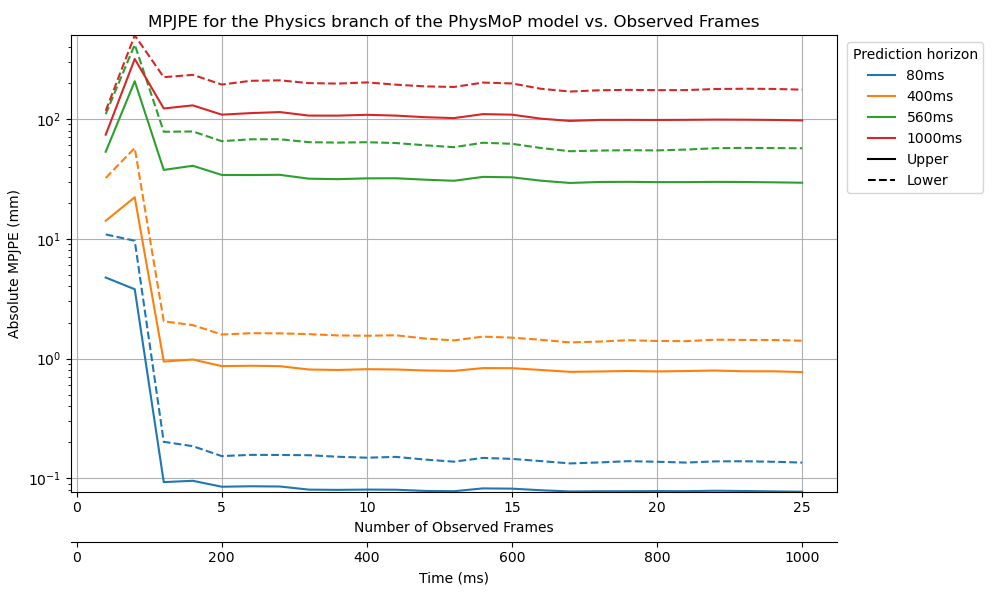
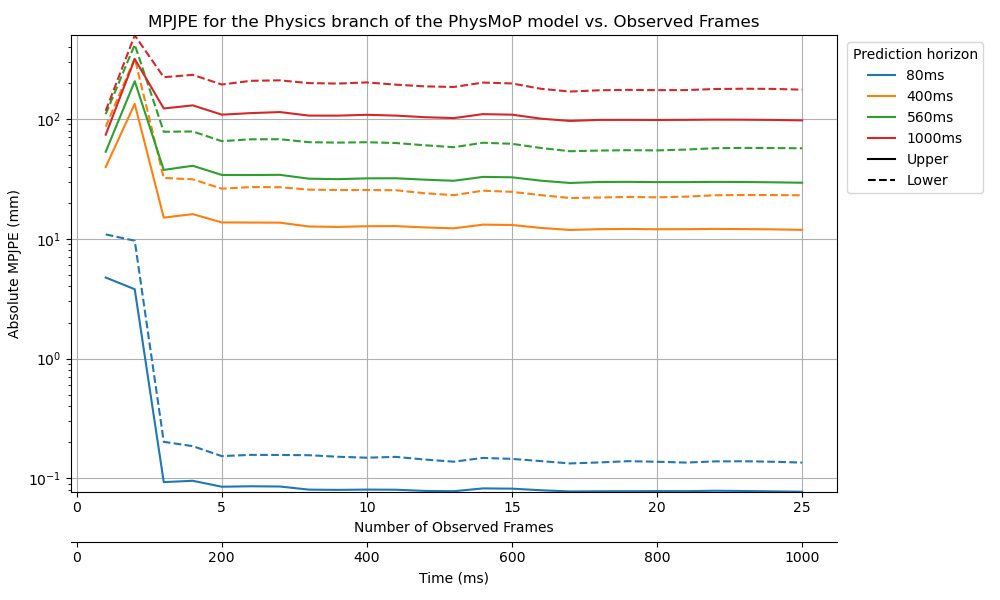
Fix incorrect time horizon selection

diff --git a/exps/run/eval_upper_lower.py b/exps/run/eval_upper_lower.py
@@ -89,6 +89,12 @@ def plot_and_save(upper_data, lower_data, model_name, branch, x_vals, colors, y_
 
 # Parse the data
 def parse_physmop_data(filename, body_part):
+    '''
+    Note that there are 8 timehorizons logged per observation length.
+    time_idx = [1, 3, 7, 9, 13, 17, 21, 24] # Corresponds to (idx+1)*40 ms in the future, i.e.,
+    time horizons are: 80ms, 160ms, 320ms, 400ms, 560ms, 720ms, 880ms, 1000ms
+    we want: 80ms, 400ms, 560ms, 1000ms -> indices 0, 3, 4, 7
+    '''
     data = []
     found_section = False
     header = f"Averaged MPJPE ({body_part}) for each observation length and each selected timestep:"
@@ -152,12 +158,12 @@ def group_average(actions, action_data):
 upper_gcn = group_average(actions, upper_gcn)
 lower_gcn = group_average(actions, lower_gcn)
 
-upper_data = upper_data[:, [0, 1, 4, 7]]
-lower_data = lower_data[:, [0, 1, 4, 7]]
-upper_physics = upper_physics[:, [0, 1, 4, 7]]
-lower_physics = lower_physics[:, [0, 1, 4, 7]]
-upper_fusion = upper_fusion[:, [0, 1, 4, 7]]
-lower_fusion = lower_fusion[:, [0, 1, 4, 7]]
+upper_data = upper_data[:, [0, 3, 4, 7]]
+lower_data = lower_data[:, [0, 3, 4, 7]]
+upper_physics = upper_physics[:, [0, 3, 4, 7]]
+lower_physics = lower_physics[:, [0, 3, 4, 7]]
+upper_fusion = upper_fusion[:, [0, 3, 4, 7]]
+lower_fusion = lower_fusion[:, [0, 3, 4, 7]]
 
 colors = plt.get_cmap('tab10').colors  # 4 distinct colors
 x_vals = np.arange(1, len(upper_data) + 1)

diff --git a/exps/run/batch_physmop_evaluate.py b/exps/run/batch_physmop_evaluate.py
@@ -23,7 +23,7 @@ actions = [
     "sittingdown", "takingphoto", "waiting", "walkingdog",
     "walkingtogether"
 ]
-time_idx = [1, 3, 7, 9, 13, 17, 21, 24] # Corresponds to idx*40 ms in the future
+time_idx = [1, 3, 7, 9, 13, 17, 21, 24] # Corresponds to (idx+1)*40 ms in the future
 selected_indices = [t + config.hist_length - 1 for t in time_idx]
 
 ds = "AMASS" 
